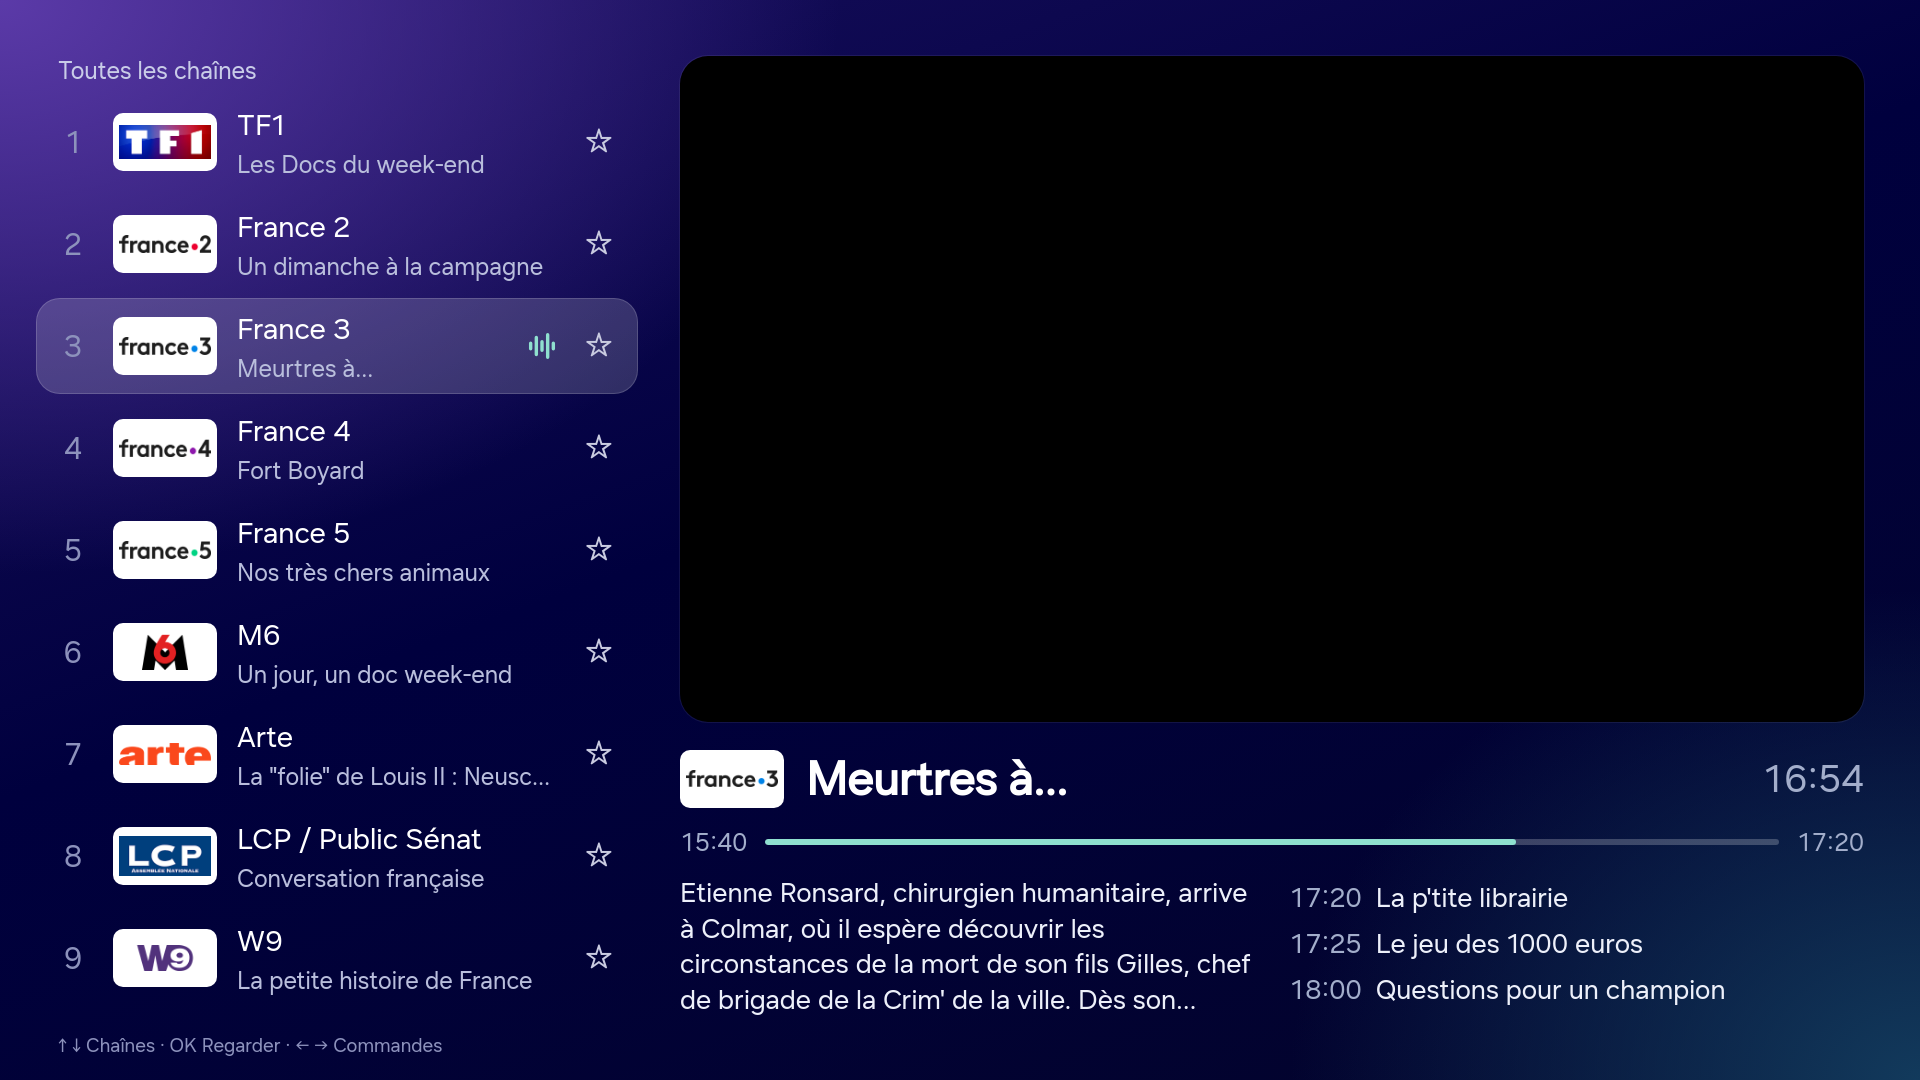
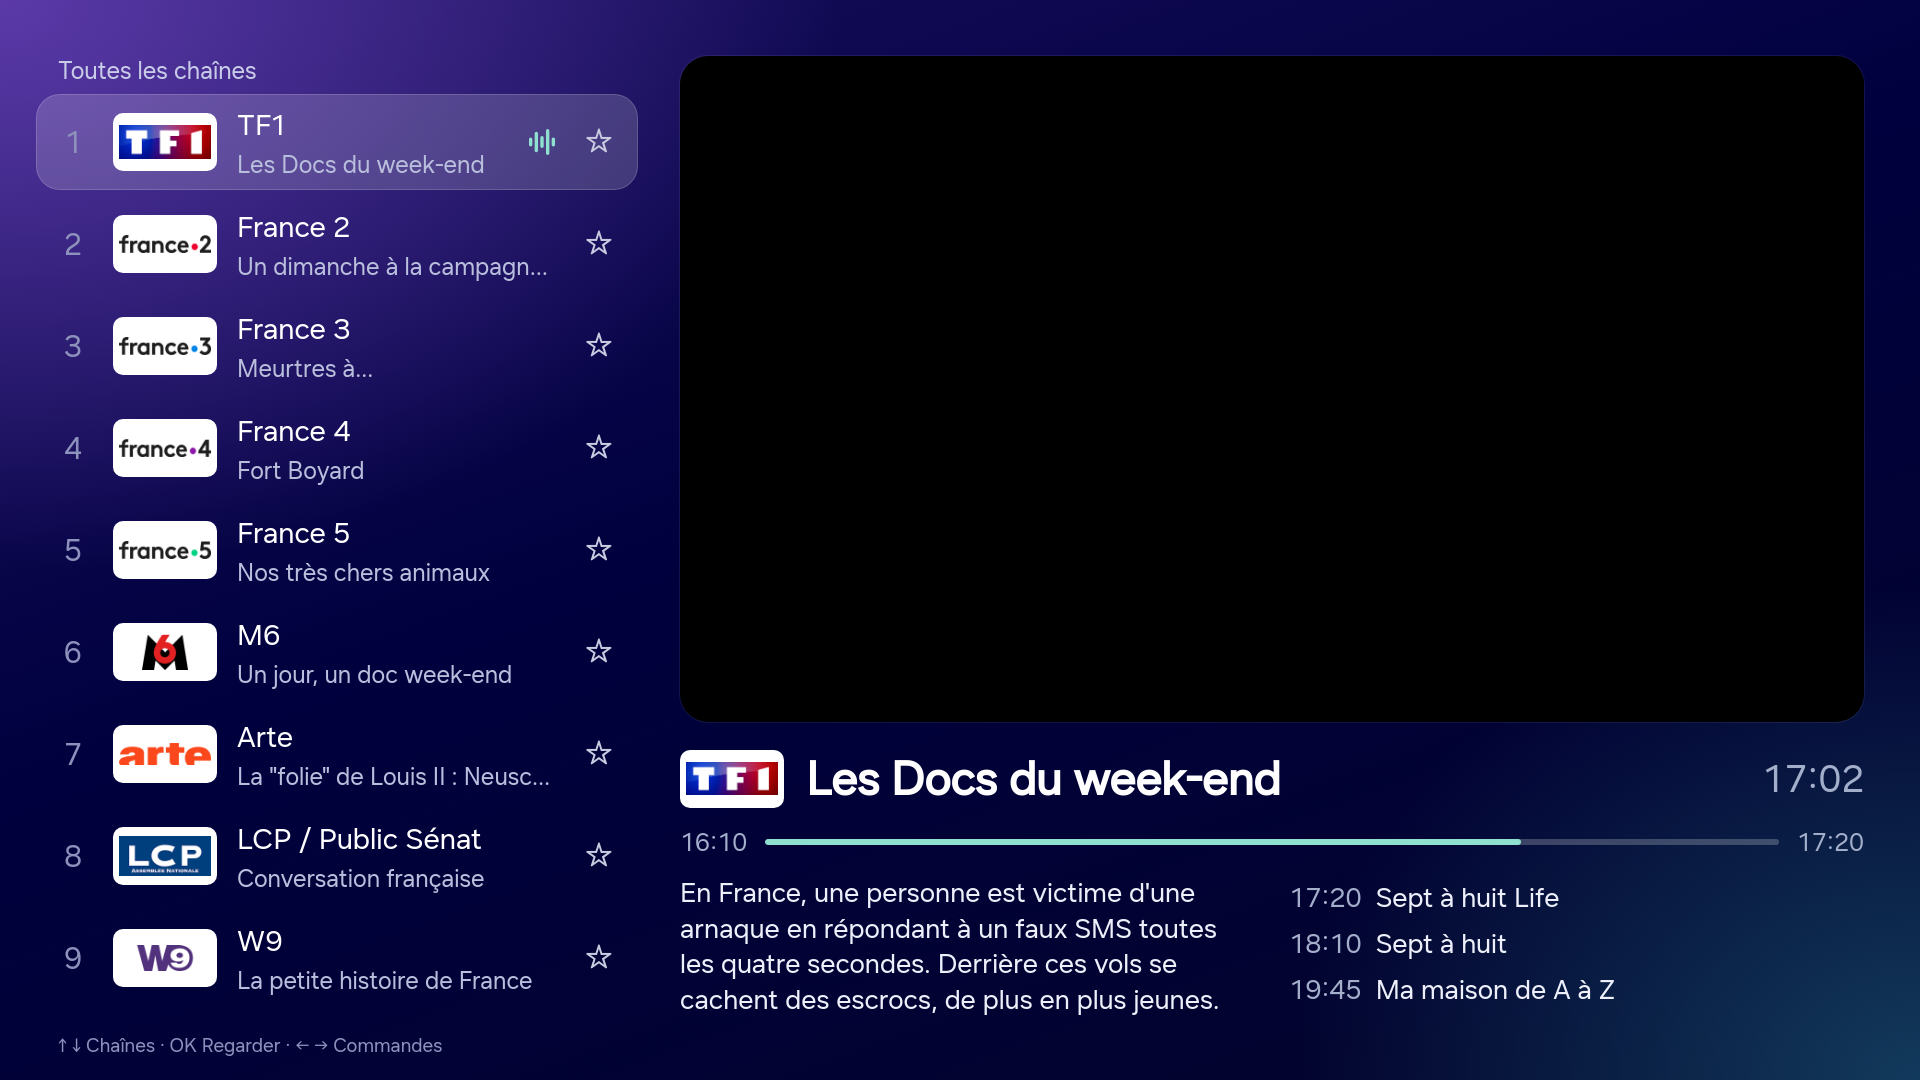
2.1.0 : démarrage automatique de la dernière chaîne dans la fenêtre de la liste, lancement plus rapide

diff --git a/app.js b/app.js
@@ -40,7 +40,12 @@
   }
   function focusChannel(key){var buttons=$('channels').querySelectorAll('button'),target=buttons[0];for(var i=0;i<buttons.length;i++)if(buttons[i].dataset.key===key)target=buttons[i];if(target){target.focus();target.scrollIntoView({block:'nearest'});}else $('video-hit').focus();}
   function toggleFavorite(){var ch=favoriteTarget();if(!ch)return;var key=ch.key,index=favorites.indexOf(key);if(index<0)favorites.push(key);else favorites.splice(index,1);write('mw.favorites',favorites);render(ui==='channels'?key:null);}
-  function load(){if(av&&av.isWeb&&window.location.protocol==='file:'){status('Sur PC, ouvrez Lancer-PC.command (Mac) ou Lancer-PC.bat (Windows) pour lancer la version web locale.');return;}var token=++loadToken;status('Chargement des chaînes…');request(sources.m3u).then(function(body){if(token!==loadToken)return;channels=D.parseM3U(body,sources.m3u);epg={programmes:{},names:{}};render(document.activeElement.dataset.key);if(ui==='channels'&&!dialogOpen())focusChannel(selected&&selected.key);var cached=read('mw.epg',null);if(cached&&cached.src===sources.epg&&cached.epg){epg=cached.epg;refreshRows();updateBanner();status('');}else status('Chargement du guide…');var src=sources.epg;return loadEPG(src).then(function(result){if(token!==loadToken)return;epg=result;refreshRows();updateBanner();status('');setTimeout(function(){try{localStorage.setItem('mw.epg',JSON.stringify({src:src,time:Date.now(),epg:result}));}catch(e){try{localStorage.removeItem('mw.epg');}catch(ignore){}}},3000);},function(error){if(token!==loadToken)return;if(!cached)status('Guide indisponible : '+error.message+'. Les chaînes restent accessibles.');});}).catch(function(error){if(token===loadToken)status(error.message+'. Vérifiez votre connexion MilkyWan ou les adresses dans les options (bouton rouge).');});}
+  function load(){if(av&&av.isWeb&&window.location.protocol==='file:'){status('Sur PC, ouvrez Lancer-PC.command (Mac) ou Lancer-PC.bat (Windows) pour lancer la version web locale.');return;}var token=++loadToken;status('Chargement des chaînes…');request(sources.m3u).then(function(body){if(token!==loadToken)return;channels=D.parseM3U(body,sources.m3u);epg={programmes:{},names:{}};if(playing){var real=channels.filter(function(c){return c.key===playing.key;})[0];if(real){playing=real;selected=real;}}render(document.activeElement.dataset.key);markPlaying();if(!autoStarted){autoStarted=true;setTimeout(autoResume,0);}if(ui==='channels'&&!dialogOpen())focusChannel(selected&&selected.key);var cached=read('mw.epg',null);if(cached&&cached.src===sources.epg&&cached.epg){epg=cached.epg;refreshRows();updateBanner();status('');}else status('Chargement du guide…');var src=sources.epg;return whenSettled().then(function(){return loadEPG(src);}).then(function(result){if(token!==loadToken)return;epg=result;refreshRows();updateBanner();status('');setTimeout(function(){try{localStorage.setItem('mw.epg',JSON.stringify({src:src,time:Date.now(),epg:result}));}catch(e){try{localStorage.removeItem('mw.epg');}catch(ignore){}}},3000);},function(error){if(token!==loadToken)return;if(!cached)status('Guide indisponible : '+error.message+'. Les chaînes restent accessibles.');});}).catch(function(error){if(token===loadToken)status(error.message+'. Vérifiez votre connexion MilkyWan ou les adresses dans les options (bouton rouge).');});}
+  // Downloading and parsing the 24 MB guide competes with AVPlay for network and CPU: refresh it only once the
+  // stream being opened shows a picture (the cached guide is displayed meanwhile).
+  var settleWaiters=[];
+  function whenSettled(){return new Promise(function(resolve){if(!busy)return resolve();settleWaiters.push(resolve);setTimeout(resolve,12000);});}
+  function settled(){var list=settleWaiters;settleWaiters=[];setTimeout(function(){list.forEach(function(r){r();});},1500);}
   // The 20+ MB XMLTV file is downloaded and parsed in a Web Worker; main-thread parsing is only a fallback.
   function loadEPG(url){var target=networkURL(url);return new Promise(function(resolve,reject){var worker,done=false;
       function fallback(){if(done)return;done=true;if(worker)worker.terminate();request(url).then(function(xml){resolve(D.parseEPGText(xml,Date.now()));}).catch(reject);}
@@ -49,10 +54,12 @@
       worker.onerror=function(event){if(event&&event.preventDefault)event.preventDefault();fallback();};
       worker.postMessage({url:new URL(target,window.location.href).href});});}
   function dialogOpen(){return ['options-modal','modal','exit-modal'].some(function(id){return !$(id).hidden;});}
-  function armHide(){clearTimeout(hideTimer);if(playing&&!busy&&!dialogOpen()&&$('play-status').hidden)hideTimer=setTimeout(hideUI,8000);}
+  // The list keeps the picture visible in its window, so only the banner hides itself after 8 s.
+  function armHide(){clearTimeout(hideTimer);if(ui==='channels')return;if(playing&&!busy&&!dialogOpen()&&$('play-status').hidden)hideTimer=setTimeout(hideUI,8000);}
   // AVPlay draws the picture on a hardware plane: shrink it into the preview window while the list is open.
   var PREVIEW_RECT=[680,56,1184,666];
-  function setListOpen(open){document.body.classList.toggle('list-open',open);if(!av||!playing||busy)return;try{if(open)av.setDisplayRect(PREVIEW_RECT[0],PREVIEW_RECT[1],PREVIEW_RECT[2],PREVIEW_RECT[3]);else av.setDisplayRect(0,0,1920,1080);}catch(e){}}
+  function applyRect(){var r=document.body.classList.contains('list-open')?PREVIEW_RECT:[0,0,1920,1080];try{av.setDisplayRect(r[0],r[1],r[2],r[3]);}catch(e){}}
+  function setListOpen(open){document.body.classList.toggle('list-open',open);if(!av||!playing||busy)return;applyRect();}
   function hideUI(){clearTimeout(hideTimer);if(!playing||dialogOpen())return;ui='video';$('home').hidden=true;setListOpen(false);$('banner').hidden=true;document.body.classList.remove('banner-open');$('video-hit').focus();}
   function showChannels(keepFilter){clearTimeout(hideTimer);ui='channels';$('banner').hidden=true;document.body.classList.remove('banner-open');$('home').hidden=false;setListOpen(true);updatePreview();
     // Always reopen the list at the channel currently being watched.
@@ -85,7 +92,7 @@
   function message(value){$('play-status').textContent=value;$('play-status').hidden=!value;}
   function closeAV(){if(!av)return;try{var state=av.getState();if(state!=='NONE'&&state!=='IDLE')av.stop();av.close();}catch(e){try{av.close();}catch(ignore){}}}
   function resetSubtitles(){subtitlesEnabled=false;clearTimeout(subtitleTimer);$('subtitle-text').hidden=true;$('subtitle-text').textContent='';}
-  function fail(error,token){if(token!==playToken)return;clearTimeout(playTimer);busy=false;pendingChannel=null;closeAV();resetSubtitles();playing=null;document.body.classList.remove('playing');message('Lecture impossible : '+error+'. Choisissez une autre chaîne ou vérifiez votre connexion.');showChannels();}
+  function fail(error,token){if(token!==playToken)return;settled();clearTimeout(playTimer);busy=false;pendingChannel=null;closeAV();resetSubtitles();playing=null;document.body.classList.remove('playing');message('Lecture impossible : '+error+'. Choisissez une autre chaîne ou vérifiez votre connexion.');showChannels();}
   // Fast channel change ("predictive pre-joining"): spare AVPlay instances prepare CH+, CH- and the channel
   // highlighted in the list in PREBUFFER_MODE (measured on TU70DU7105: picture 0.7 s after the switch instead
   // of ~4 s). AVPlayStore allows 4 players; a fixed pool is reused because creating new ones leaks decoders.
@@ -110,25 +117,32 @@
   function listen(player,token){player.setListener({onbufferingstart:function(){if(token===playToken)message('Mise en mémoire tampon…');},onbufferingcomplete:function(){if(token===playToken){message('');armHide();}},onerror:function(error){fail(String(error),token);},onstreamcompleted:function(){fail('le flux a été interrompu',token);},onsubtitlechange:function(duration,value){if(token!==playToken||!subtitlesEnabled)return;clearTimeout(subtitleTimer);$('subtitle-text').textContent=value;$('subtitle-text').hidden=!value;subtitleTimer=setTimeout(function(){$('subtitle-text').hidden=true;},Math.max(0,Number(duration)||0));}});}
   // A channel picked while the previous one was still connecting wins: start it instead.
   function takePending(){clearTimeout(playTimer);busy=false;if(!pendingChannel)return false;var next=pendingChannel;pendingChannel=null;start(next);return true;}
-  function onPlaying(){window.MilkyDebug.playedAt=performance.now();message('');markPlaying();updateAudioLabel();if(ui==='channels')setListOpen(true);armHide();if(ui==='banner'&&(tabIndex===1||tabIndex===2))renderTracks(tabIndex===1?'AUDIO':'TEXT');Object.keys(pre).forEach(function(k){if(k!=='focus')cancelPrebuffer(k);});if(pre.focus&&(pre.focus.ch.key===playing.key))cancelPrebuffer('focus');schedulePrebuffer(zapDirection>0?'next':'prev',neighbour(zapDirection),300);schedulePrebuffer(zapDirection>0?'prev':'next',neighbour(-zapDirection),800);}
+  function mark(name){try{performance.mark('mw-'+name);}catch(e){}}
+  function onPlaying(){mark('playing');window.MilkyDebug.playedAt=performance.now();settled();message('');markPlaying();updateAudioLabel();if(ui==='channels')setListOpen(true);armHide();if(ui==='banner'&&(tabIndex===1||tabIndex===2))renderTracks(tabIndex===1?'AUDIO':'TEXT');Object.keys(pre).forEach(function(k){if(k!=='focus')cancelPrebuffer(k);});if(pre.focus&&(pre.focus.ch.key===playing.key))cancelPrebuffer('focus');schedulePrebuffer(zapDirection>0?'next':'prev',neighbour(zapDirection),300);schedulePrebuffer(zapDirection>0?'prev':'next',neighbour(-zapDirection),800);}
   function openStream(ch,token){
-    try{av.open(ch.url);setUserAgent(av);av.setDisplayRect(0,0,1920,1080);av.setDisplayMethod('PLAYER_DISPLAY_MODE_LETTER_BOX');
+    try{mark('open');av.open(ch.url);setUserAgent(av);applyRect();av.setDisplayMethod('PLAYER_DISPLAY_MODE_LETTER_BOX');
       // Live IPTV: AVPlay's default pre-roll buffer delays the first frame by ~6.5 s on these streams (measured: 10.3 s -> 3.8 s). 1 s is the minimum AVPlay accepts; 0 or byte sizes silently fall back to the 10 s default.
       if(av.setBufferingParam){try{av.setBufferingParam('PLAYER_BUFFER_FOR_PLAY','PLAYER_BUFFER_SIZE_IN_SECOND',1);av.setBufferingParam('PLAYER_BUFFER_FOR_RESUME','PLAYER_BUFFER_SIZE_IN_SECOND',1);}catch(ignore){}}
       listen(av,token);
-      av.prepareAsync(function(){if(token!==playToken||takePending())return;try{av.setSilentSubtitle(true);av.play();onPlaying();}catch(e){fail(e.message,token);}},function(error){if(token!==playToken)return;busy=false;if(pendingChannel){var next=pendingChannel;pendingChannel=null;start(next);return;}fail(error.message||String(error),token);});
+      mark('prepare');av.prepareAsync(function(){mark('prepared');if(token!==playToken||takePending())return;try{av.setSilentSubtitle(true);av.play();onPlaying();}catch(e){fail(e.message,token);}},function(error){if(token!==playToken)return;busy=false;if(pendingChannel){var next=pendingChannel;pendingChannel=null;start(next);return;}fail(error.message||String(error),token);});
     }catch(error){fail(error.message||String(error),token);}
   }
-  function start(ch){if(busy){pendingChannel=ch;return;}resetSubtitles();chosenTracks={};playing=ch;selected=ch;select(ch);document.body.classList.add('playing');$('paused').hidden=true;message('Connexion au direct…');showBanner(0);
+  // Opening the app (or coming back to it) resumes the last channel watched. With prelaunch the page loads
+  // hidden at TV start-up, so nothing plays until it is actually on screen.
+  var autoStarted=false;
+  // The last channel is cached with its stream URL so playback can start before the M3U list is downloaded.
+  function lastChannel(){var last=read('mw.last',null);return last&&typeof last==='object'&&D.safeURL(last.url)?last:null;}
+  function autoResume(){if(playing||busy||document.hidden||dialogOpen())return;var last=lastChannel(),ch=(last&&channels.filter(function(c){return c.key===last.key;})[0])||(channels.length?channels[0]:last);if(ch)start(ch,true);}
+  function start(ch,inList){if(busy){pendingChannel=ch;return;}mark('start');var wasPlaying=!!playing;write('mw.last',{key:ch.key,id:ch.id,epgName:ch.epgName,name:ch.name,number:ch.number,logo:ch.logo,group:ch.group,url:ch.url});resetSubtitles();chosenTracks={};playing=ch;selected=ch;select(ch);document.body.classList.add('playing');$('paused').hidden=true;message('Connexion au direct…');if(inList){showChannels(true);focusChannel(ch.key);}else showBanner(0);
     var token=++playToken;if(!av){fail('le lecteur Samsung AVPlay est absent',token);return;}busy=true;playTimer=setTimeout(function(){fail('délai de connexion dépassé',token);},35000);
     var ready=takePrebuffer(ch);
     // Stopping the previous stream blocks ~200 ms in AVPlay: let the banner paint first, then switch.
-    requestAnimationFrame(function(){setTimeout(function(){if(token!==playToken){if(ready){try{ready.player.close();}catch(e){}}return;}closeAV();
-      if(ready){av=ready.player;var go=function(ok){if(token!==playToken)return;if(ok){try{av.setDisplayRect(0,0,1920,1080);av.setDisplayMethod('PLAYER_DISPLAY_MODE_LETTER_BOX');if(takePending())return;listen(av,token);av.setSilentSubtitle(true);av.play();onPlaying();return;}catch(e){}}try{av.close();}catch(ignore){}openStream(ch,token);};
+    (wasPlaying?function(f){requestAnimationFrame(function(){setTimeout(f,0);});}:function(f){f();})(function(){(function(){if(token!==playToken){if(ready){try{ready.player.close();}catch(e){}}return;}closeAV();
+      if(ready){av=ready.player;var go=function(ok){if(token!==playToken)return;if(ok){try{applyRect();av.setDisplayMethod('PLAYER_DISPLAY_MODE_LETTER_BOX');if(takePending())return;listen(av,token);av.setSilentSubtitle(true);av.play();onPlaying();return;}catch(e){}}try{av.close();}catch(ignore){}openStream(ch,token);};
         // Still preparing: adopt it and play as soon as it is ready instead of starting over.
         if(ready.ready)go(true);else ready.onReady=go;return;}
       openStream(ch,token);
-    },0);});
+    })();});
   }
   // Read-only hooks for on-device diagnostics (remote inspector).
   window.MilkyDebug={player:function(){return av;},prebuffer:function(){var o={};for(var k in pre)o[k]=pre[k].ch.name+(pre[k].ready?' READY':' preparing');return o;}};
@@ -196,6 +210,6 @@
     if(code===13&&ui==='video'){event.preventDefault();showBanner(0);}
   });
   if(window.tizen&&tizen.tvinputdevice){['ChannelUp','ChannelDown','ColorF0Red','ColorF1Green','ColorF3Blue','Info','MediaPlay','MediaPause','MediaPlayPause'].forEach(function(key){try{tizen.tvinputdevice.registerKey(key);}catch(e){}});}
-  document.addEventListener('visibilitychange',function(){if(document.hidden&&playing)stop();});window.addEventListener('unload',function(){cancelPrebuffer();closeAV();});
-  setInterval(function(){if(!dialogOpen()){if(ui==='channels')refreshRows();if(ui==='banner')updateBanner();}},30000);setInterval(function(){if(ui==='channels')$('clock').textContent=time(Date.now());},10000);setInterval(load,6*60*60*1000);$('video-hit').focus();load();
+  document.addEventListener('visibilitychange',function(){if(document.hidden){if(playing)stop();}else if(autoStarted)autoResume();});window.addEventListener('unload',function(){cancelPrebuffer();closeAV();});
+  setInterval(function(){if(!dialogOpen()){if(ui==='channels')refreshRows();if(ui==='banner')updateBanner();}},30000);setInterval(function(){if(ui==='channels')$('clock').textContent=time(Date.now());},10000);setInterval(load,6*60*60*1000);$('video-hit').focus();if(lastChannel()){autoStarted=true;autoResume();}load();
 })();

diff --git a/README.md b/README.md
@@ -18,6 +18,7 @@ Application Tizen Web pour regarder la télévision MilkyWan (FTTH) sur une TV S
 
 - **Interface aux couleurs MilkyWan** : liste des chaînes avec sections Favoris et Toutes les chaînes. Pendant la lecture, l'image continue dans une fenêtre à côté de la liste, avec le programme en cours et les suivants. Bandeau translucide avec des boutons en pilule.
 - **Lecteur matériel Samsung AVPlay** en plein écran, 1080i et UHD (HEVC).
+- **Démarrage direct** : à l'ouverture, la dernière chaîne regardée démarre dans la fenêtre à côté de la liste.
 - **Zapping rapide** : les chaînes précédente et suivante, ainsi que la chaîne surlignée dans la liste, sont préparées en arrière-plan. Le changement de chaîne prend environ 0,8 s au lieu d'environ 4 s.
 - **Guide des programmes** (XMLTV) : programme en cours, progression, programme suivant et résumé. Il est chargé en arrière-plan et mis en cache pour un affichage immédiat au lancement.
 - **Pistes audio et sous-titres** choisis directement dans le bandeau.

diff --git a/CHANGELOG.md b/CHANGELOG.md
@@ -1,5 +1,12 @@
 # Journal des versions
 
+## 2.1.0 — 4 octobre 2026
+
+- **Démarrage automatique** : à l'ouverture de l'app, la dernière chaîne regardée démarre dans la fenêtre, à côté de la liste. Même chose au retour dans l'app. Avec le lancement anticipé de la TV, rien n'est lu tant que l'app n'est pas à l'écran.
+- La dernière chaîne est mémorisée avec l'adresse de son flux : la lecture démarre sans attendre le téléchargement de la liste (image en environ 5,8 s après l'ouverture, au lieu d'environ 7,1 s).
+- Le rafraîchissement du guide (24 Mo) attend que l'image soit affichée ; le guide en cache est utilisé entre-temps.
+- La liste des chaînes ne se ferme plus seule après 8 s : l'image reste visible dans sa fenêtre. Retour passe en plein écran.
+
 ## 2.0.0 — 4 octobre 2026
 
 Nouvelle interface aux couleurs MilkyWan (bleu nuit, menthe, violet).
